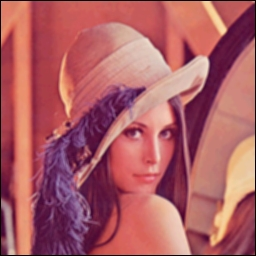
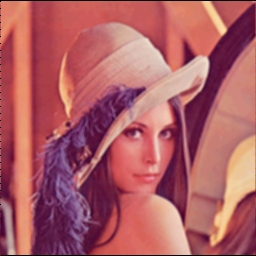
pthread start and end by pixel

Changed region(s): [[0.9688, 0.0, 1.0, 1.0], [0.0, 0.0312, 0.0312, 0.6875], [0.0, 0.7188, 0.0312, 1.0]]

diff --git a/project1/src/cpu/pthread_PartB.cpp b/project1/src/cpu/pthread_PartB.cpp
@@ -1,0 +1,109 @@
+#include <iostream>
+#include <chrono>
+#include <pthread.h>
+#include "utils.hpp"
+
+const int FILTER_SIZE = 9;
+const float filter[9] = {
+    1.0 / 9, 1.0 / 9, 1.0 / 9,
+    1.0 / 9, 1.0 / 9, 1.0 / 9,
+    1.0 / 9, 1.0 / 9, 1.0 / 9
+};
+int width;
+int height;
+int num_channels;
+
+// Structure to pass data to each thread
+struct ThreadData {
+    unsigned char* input_buffer;
+    unsigned char* output_buffer;
+    int start;
+    int end;
+};
+
+// Function to convert RGB to Grayscale for a portion of the image
+void* smoothing(void* arg) {
+    ThreadData* data = reinterpret_cast<ThreadData*>(arg);
+    
+    for (int i = data->start; i < data->end; i++) {
+        int sum_r = 0, sum_g = 0, sum_b = 0;
+
+        for (int j = 0; j < FILTER_SIZE; j++) {
+            int index = ((j/3-1)* width + (j%3-1)) * num_channels + i;
+            unsigned char r = data->input_buffer[index];
+            unsigned char g = data->input_buffer[index + 1];
+            unsigned char b = data->input_buffer[index + 2];
+            sum_r += r * filter[j];
+            sum_g += g * filter[j];
+            sum_b += b * filter[j];
+        }
+        data->output_buffer[i] = static_cast<unsigned char>(sum_r);
+        data->output_buffer[i+1] = static_cast<unsigned char>(sum_g);
+        data->output_buffer[i+2] = static_cast<unsigned char>(sum_b);
+    }
+
+    return nullptr;
+}
+
+int main(int argc, char** argv) {
+    // Verify input argument format
+    if (argc != 4) {
+        std::cerr << "Invalid argument, should be: ./executable /path/to/input/jpeg /path/to/output/jpeg num_threads\n";
+        return -1;
+    }
+
+    int num_threads = std::stoi(argv[3]); // User-specified thread count
+
+    // Read from input JPEG
+    const char* input_filepath = argv[1];
+    std::cout << "Input file from: " << input_filepath << "\n";
+    auto input_jpeg = read_from_jpeg(input_filepath);
+
+    // Computation: RGB to Gray
+    unsigned char *filteredImage = new unsigned char[input_jpeg.width * input_jpeg.height * input_jpeg.num_channels];
+    
+    pthread_t threads[num_threads];
+    ThreadData thread_data[num_threads];
+
+    
+    width = input_jpeg.width;
+    height = input_jpeg.height;
+    num_channels = input_jpeg.num_channels;
+    auto start_time = std::chrono::high_resolution_clock::now();
+
+    // int chunk_size = (input_jpeg.width-2) * (input_jpeg.height-2) / num_threads;
+    int h_per_thread = (height-2) / num_threads;
+    for (int i = 0; i < num_threads; i++) {
+        thread_data[i].input_buffer = input_jpeg.buffer;
+        thread_data[i].output_buffer = filteredImage;
+        thread_data[i].start = ((i * h_per_thread +1) * width+1) * num_channels;
+        thread_data[i].end = (i == num_threads - 1) ? \
+                            width * (height -1)*num_channels -1 : \
+                            (((i + 1) * h_per_thread+1) *width -1) * num_channels;
+        // std::cout<<thread_data[i].start<<" "<<thread_data[i].end<<std::endl;
+        pthread_create(&threads[i], nullptr, smoothing, &thread_data[i]);
+    }
+
+    // Wait for all threads to finish
+    for (int i = 0; i < num_threads; i++) {
+        pthread_join(threads[i], nullptr);
+    }
+
+    auto end_time = std::chrono::high_resolution_clock::now();
+    auto elapsed_time = std::chrono::duration_cast<std::chrono::milliseconds>(
+        end_time - start_time);
+    // Save output JPEG image
+    const char* output_filepath = argv[2];
+    std::cout << "Output file to: " << output_filepath << "\n";
+    JPEGMeta output_jpeg{filteredImage, input_jpeg.width, input_jpeg.height, input_jpeg.num_channels, input_jpeg.color_space};
+    if (write_to_jpeg(output_jpeg, output_filepath)) {
+        std::cerr << "Failed to write output JPEG\n";
+        return -1;
+    }
+    // Post-processing
+    delete[] input_jpeg.buffer;
+    delete[] filteredImage;
+    std::cout << "Transformation Complete!" << std::endl;
+    std::cout << "Execution Time: " << elapsed_time.count() << " milliseconds\n";
+    return 0;
+}
